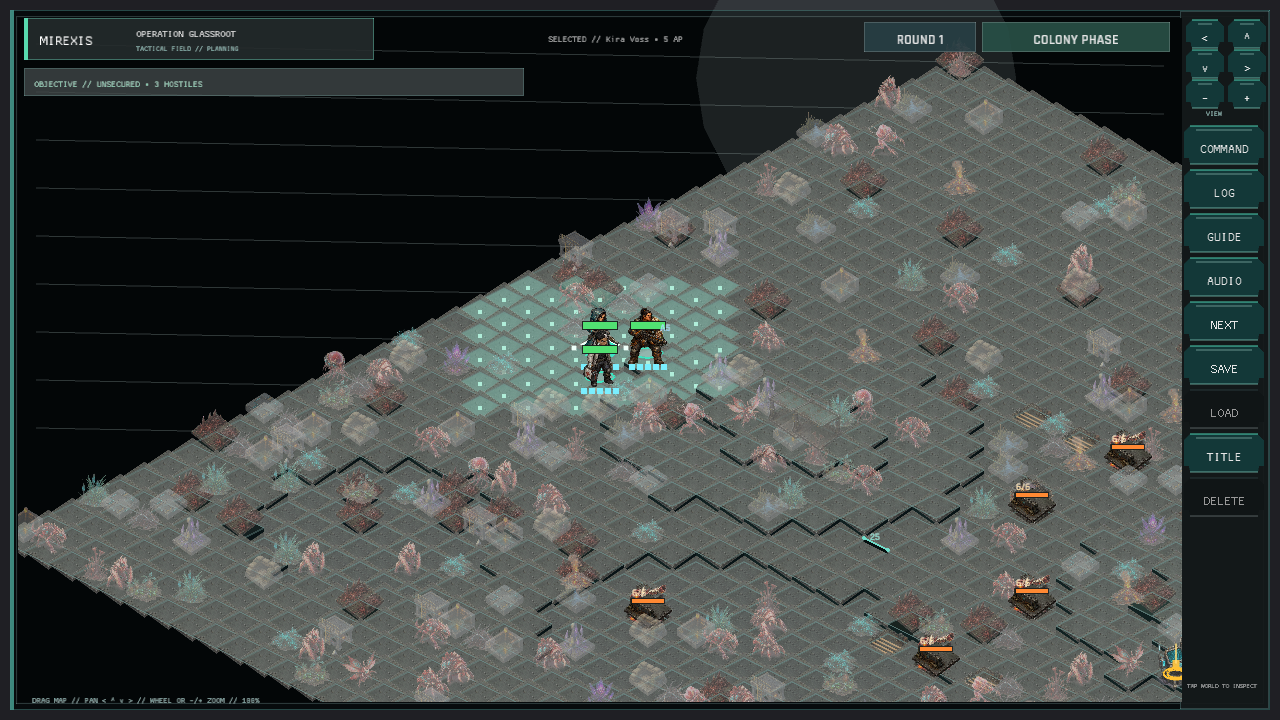
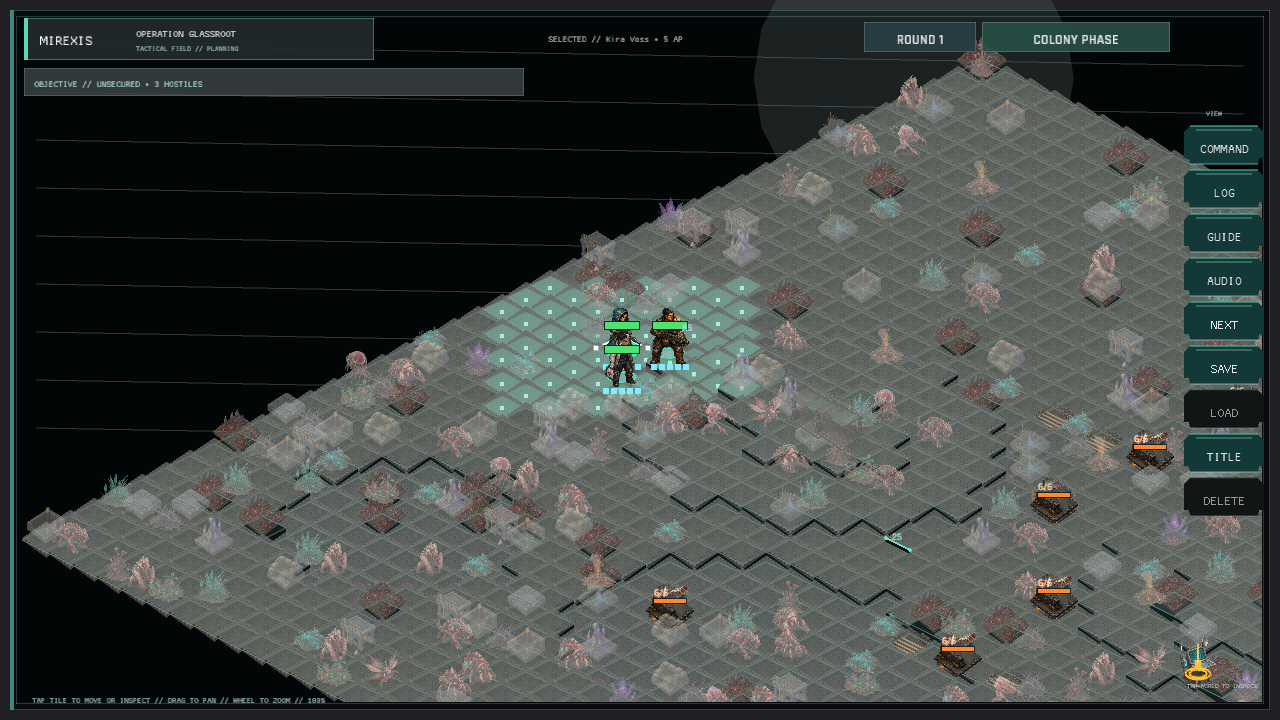
The ground waits for a destination, not a directional pad (touch movement controls)
Walking and tactical movement were already destination-based, but the UI still spent space on NW/NE/SW/SE pads and a tactical camera arrow strip. Remove those controls so a tap or click on valid ground remains the direct movement affordance. Keyboard movement paths stay unchanged; drag and wheel still handle camera navigation, and colony zoom controls remain available.

The tactical viewport expands into the reclaimed strip, the map guidance and field manual describe tap, drag, and wheel input, and the old camera nudge API and test are removed now that no visible control calls it. Refreshed gameplay and intent captures show the cleaner field.

Verified with `cargo test --all-targets` (527 unit tests plus asset registry and code standards), formatting and diff checks, and the capture audit (108 unique 1280x720 scenes). `publish.ps1` built the release and packed assets but stopped because this PowerShell `Compress-Archive` lacks `-ProgressAction`; deployment packaging did not complete.

Changed region(s): [[0.0, 0.0, 1.0, 0.9778], [0.7812, 0.0, 0.8438, 0.0306]]

diff --git a/src/tactical_map_ui.rs b/src/tactical_map_ui.rs
@@ -21,14 +21,7 @@ fn tactical_panel() -> Rect {
 }
 
 fn tactical_viewport(panel: Rect) -> Rect {
-    Rect::new(panel.x + 8.0, panel.y + 8.0, panel.w - 96.0, panel.h - 16.0)
-}
-
-fn camera_controls_origin(panel: Rect) -> Vec2 {
-    vec2(
-        panel.right() - crate::camera_controls::STRIP_WIDTH - 4.0,
-        panel.y + 10.0,
-    )
+    Rect::new(panel.x + 8.0, panel.y + 8.0, panel.w - 16.0, panel.h - 16.0)
 }
 
 fn camera_art_insets(zoom: f32) -> CameraInsets {
@@ -56,16 +49,8 @@ pub(crate) fn draw(
             .with_left_accent(4.0, Color::new(0.18, 0.54, 0.48, 0.9)),
     );
     let grid_rect = tactical_viewport(panel);
-    draw_edge_strip(panel);
     let map_input_enabled = input_enabled
         && !(ctx.tactical_panel_open && crate::ui::tactical_command_panel_rect().contains(mouse));
-    let camera_control_clicked = crate::camera_controls::draw(
-        camera,
-        grid_rect,
-        mouse,
-        camera_controls_origin(panel),
-        map_input_enabled && !camera.primary_gesture_active(),
-    );
     if map_input_enabled {
         camera.reveal_changed_tactical_selection(ctx.session.tactical.selected_tile, grid_rect);
     }
@@ -75,10 +60,7 @@ pub(crate) fn draw(
         camera.clear_pointer_interaction();
         false
     };
-    if camera_control_clicked {
-        camera.guard_next_primary_release();
-    }
-    let suppress_map_click = !input_enabled || camera_control_clicked || camera_dragged;
+    let suppress_map_click = !input_enabled || camera_dragged;
     camera.clamp_isometric_with_insets(
         ctx.session.tactical.fog.width,
         ctx.session.tactical.fog.height,
@@ -197,7 +179,7 @@ pub(crate) fn draw(
     }
     draw_ui_text_ex(
         &format!(
-            "DRAG MAP // PAN < ^ v > // WHEEL OR -/+ ZOOM // {:>3}%",
+            "TAP TILE TO MOVE OR INSPECT // DRAG TO PAN // WHEEL TO ZOOM // {:>3}%",
             (camera.zoom * 100.0) as i32
         ),
         panel.x + 22.0,
@@ -213,20 +195,6 @@ pub(crate) fn draw(
         actions,
     );
     camera_dragged
-}
-
-fn draw_edge_strip(panel: Rect) {
-    let rect = Rect::new(
-        panel.right() - crate::camera_controls::STRIP_WIDTH - 10.0,
-        panel.y + 1.0,
-        crate::camera_controls::STRIP_WIDTH + 9.0,
-        panel.h - 2.0,
-    );
-    draw_surface(
-        rect,
-        &SurfaceStyle::new(Color::new(0.018, 0.042, 0.046, 0.94))
-            .with_border(1.0, Color::new(0.14, 0.34, 0.34, 0.72)),
-    );
 }
 
 fn draw_backdrop(rect: Rect) {

diff --git a/src/camera_controls.rs b/src/camera_controls.rs
@@ -1,53 +1,11 @@
-//! Compact visible controls for touch-first tactical and colony cameras.
+//! Compact visible zoom controls for the touch-first colony camera.
 
 use crate::grid_ui::WorldCamera;
 use crate::ui_widgets::button;
-use macroquad::prelude::{vec2, Rect, Vec2};
+use macroquad::prelude::{Rect, Vec2};
 
 pub(crate) const CONTROL_WIDTH: f32 = 38.0;
 pub(crate) const CONTROL_HEIGHT: f32 = 28.0;
-pub(crate) const STRIP_WIDTH: f32 = 80.0;
-
-pub(crate) fn draw(
-    camera: &mut WorldCamera,
-    viewport: Rect,
-    mouse: Vec2,
-    origin: Vec2,
-    allow_activation: bool,
-) -> bool {
-    let mut activated = false;
-    let controls = [
-        ("<", vec2(-1.0, 0.0), (0.0, 0.0)),
-        ("^", vec2(0.0, -1.0), (42.0, 0.0)),
-        ("v", vec2(0.0, 1.0), (0.0, 30.0)),
-        (">", vec2(1.0, 0.0), (42.0, 30.0)),
-    ];
-    for (label, direction, (offset_x, offset_y)) in controls {
-        if button(
-            Rect::new(
-                origin.x + offset_x,
-                origin.y + offset_y,
-                CONTROL_WIDTH,
-                CONTROL_HEIGHT,
-            ),
-            label,
-            true,
-            mouse,
-        ) && allow_activation
-        {
-            camera.nudge(direction);
-            activated = true;
-        }
-    }
-    activated
-        | draw_zoom(
-            camera,
-            viewport,
-            mouse,
-            vec2(origin.x, origin.y + 60.0),
-            allow_activation,
-        )
-}
 
 pub(crate) fn draw_zoom(
     camera: &mut WorldCamera,

diff --git a/src/colony_map_ui/controls.rs b/src/colony_map_ui/controls.rs
@@ -1,4 +1,4 @@
-//! Visible touch controls for colony walking and construction mode.
+//! Visible touch controls for colony interaction and construction mode.
 
 use crate::campaign::CampaignState;
 use crate::colony::BuildingKind;
@@ -6,7 +6,7 @@ use crate::colony_exploration::ColonyExplorer;
 use crate::data::GameData;
 use crate::ui::UiAction;
 use crate::ui_widgets::button;
-use macroquad::prelude::{is_mouse_button_down, vec2, MouseButton, Rect, Vec2};
+use macroquad::prelude::{Rect, Vec2};
 
 fn build_button_label(
     kind: BuildingKind,
@@ -140,23 +140,6 @@ pub(super) fn draw_exploration_controls(
         }
         return;
     }
-    let mut movement = Vec2::ZERO;
-    for (index, (label, direction)) in [
-        ("NW", vec2(-1.0, 0.0)),
-        ("NE", vec2(0.0, -1.0)),
-        ("SW", vec2(0.0, 1.0)),
-        ("SE", vec2(1.0, 0.0)),
-    ]
-    .into_iter()
-    .enumerate()
-    {
-        let rect = Rect::new(20.0 + index as f32 * 46.0, 654.0, 42.0, 42.0);
-        button(rect, label, true, mouse);
-        if rect.contains(mouse) && is_mouse_button_down(MouseButton::Left) {
-            movement += direction;
-        }
-    }
-    explorer.set_touch_direction(movement.normalize_or_zero());
     if button(
         Rect::new(210.0, 654.0, 112.0, 42.0),
         "TALK",

diff --git a/src/tactical_map_ui/tests.rs b/src/tactical_map_ui/tests.rs
@@ -3,22 +3,13 @@ use crate::first_hour::{FirstHourProgress, FirstHourStage, TacticalLesson};
 use crate::state::GameSession;
 
 #[test]
-fn visible_tactical_camera_controls_stay_inside_the_edge_strip_and_outside_the_map() {
+fn tactical_viewport_uses_the_world_panel_without_a_control_strip() {
     let panel = tactical_panel();
     let viewport = tactical_viewport(panel);
-    let origin = camera_controls_origin(panel);
-    let bounds = Rect::new(
-        origin.x,
-        origin.y,
-        crate::camera_controls::STRIP_WIDTH,
-        crate::camera_controls::CONTROL_HEIGHT * 3.0 + 4.0,
-    );
-
-    assert!(bounds.x >= panel.x);
-    assert!(bounds.right() <= panel.right());
-    assert!(bounds.y >= panel.y);
-    assert!(bounds.x >= viewport.right());
-    assert!(bounds.bottom() <= panel.bottom());
+    assert_eq!(viewport.x, panel.x + 8.0);
+    assert_eq!(viewport.y, panel.y + 8.0);
+    assert_eq!(viewport.right(), panel.right() - 8.0);
+    assert_eq!(viewport.bottom(), panel.bottom() - 8.0);
 }
 
 #[test]

diff --git a/src/colony_map_ui.rs b/src/colony_map_ui.rs
@@ -63,7 +63,7 @@ pub(crate) fn draw(context: ColonyMapContext<'_>) -> bool {
             camera,
             viewport,
             mouse,
-            camera_controls_origin(panel),
+            zoom_controls_origin(panel),
             !camera.primary_gesture_active(),
         );
     let camera_dragged = if interaction_enabled {
@@ -198,7 +198,7 @@ pub(crate) fn draw(context: ColonyMapContext<'_>) -> bool {
             )
         } else {
             format!(
-                "TAP ANY GROUND POINT // HOLD THE PAD TO MOVE // {}%",
+                "TAP ANY GROUND POINT TO WALK // DRAG/WHEEL TO SCAN // {}%",
                 (camera.zoom * 100.0) as i32
             )
         },
@@ -210,7 +210,7 @@ pub(crate) fn draw(context: ColonyMapContext<'_>) -> bool {
     camera_dragged
 }
 
-fn camera_controls_origin(panel: Rect) -> Vec2 {
+fn zoom_controls_origin(panel: Rect) -> Vec2 {
     vec2(panel.right() - 104.0, panel.bottom() - 56.0)
 }
 

diff --git a/src/grid_ui/tests.rs b/src/grid_ui/tests.rs
@@ -363,19 +363,6 @@ fn primary_tracking_requires_an_inside_press_and_survives_boundary_excursions() 
 }
 
 #[test]
-fn visible_camera_controls_nudge_at_screen_scale_and_zoom_from_center() {
-    let viewport = Rect::new(18.0, 106.0, 884.0, 568.0);
-    let mut camera = WorldCamera::tactical_start(TilePos::new(8, 5));
-    camera.zoom = 1.5;
-    let before = camera.center;
-    camera.nudge(vec2(1.0, -1.0));
-    assert_eq!(camera.center, before + vec2(64.0, -64.0));
-    camera.zoom_center(viewport, 1.25);
-    assert_eq!(camera.zoom, 1.85);
-    assert_eq!(camera.center, before + vec2(64.0, -64.0));
-}
-
-#[test]
 fn camera_clamp_keeps_the_large_world_in_view_at_every_zoom_limit() {
     let viewport = Rect::new(18.0, 106.0, 884.0, 568.0);
     let world_min = vec2(-40.0 * TACTICAL_HALF_WIDTH, -TACTICAL_HALF_HEIGHT);

diff --git a/src/colony_map_ui/tests.rs b/src/colony_map_ui/tests.rs
@@ -275,10 +275,10 @@ fn first_hour_route_targets_the_current_guided_colonist() {
 }
 
 #[test]
-fn visible_camera_controls_stay_below_the_interactive_colony_viewport() {
+fn visible_zoom_controls_stay_below_the_interactive_colony_viewport() {
     let panel = panel_bounds(false);
     let viewport = viewport_bounds(panel);
-    let origin = camera_controls_origin(panel);
+    let origin = zoom_controls_origin(panel);
     assert!(origin.y >= viewport.bottom());
     assert!(origin.y + 28.0 <= panel.bottom());
 }

diff --git a/src/help_ui.rs b/src/help_ui.rs
@@ -34,7 +34,7 @@ pub(crate) fn draw(mouse: Vec2, actions: &mut Vec<UiAction>) {
         &[
             "Tap/click a colonist to make them active.",
             "Green tiles are reachable this activation.",
-            "Pan with < ^ v >; zoom with -/+; drag/wheel too.",
+            "Drag to pan; use the mouse wheel to zoom.",
             "Tap a hostile to inspect its forecast, then tap ATTACK to fire.",
         ],
     );

diff --git a/src/grid_ui.rs b/src/grid_ui.rs
@@ -198,10 +198,6 @@ impl WorldCamera {
         self.center -= delta / self.zoom;
     }
 
-    pub(crate) fn nudge(&mut self, direction: Vec2) {
-        self.center += direction * 96.0 / self.zoom;
-    }
-
     pub(crate) fn zoom_center(&mut self, viewport: Rect, factor: f32) {
         self.zoom_at(viewport, viewport.center(), factor);
     }

diff --git a/docs/verification/FINAL_CAPTURE_INVENTORY.md b/docs/verification/FINAL_CAPTURE_INVENTORY.md
@@ -112,7 +112,7 @@ Manifest: `scripts/capture_ui.ps1`
[8 lines of base64/hex data omitted]
@@ -125,7 +125,7 @@ Manifest: `scripts/capture_ui.ps1`
[8 lines of base64/hex data omitted]
